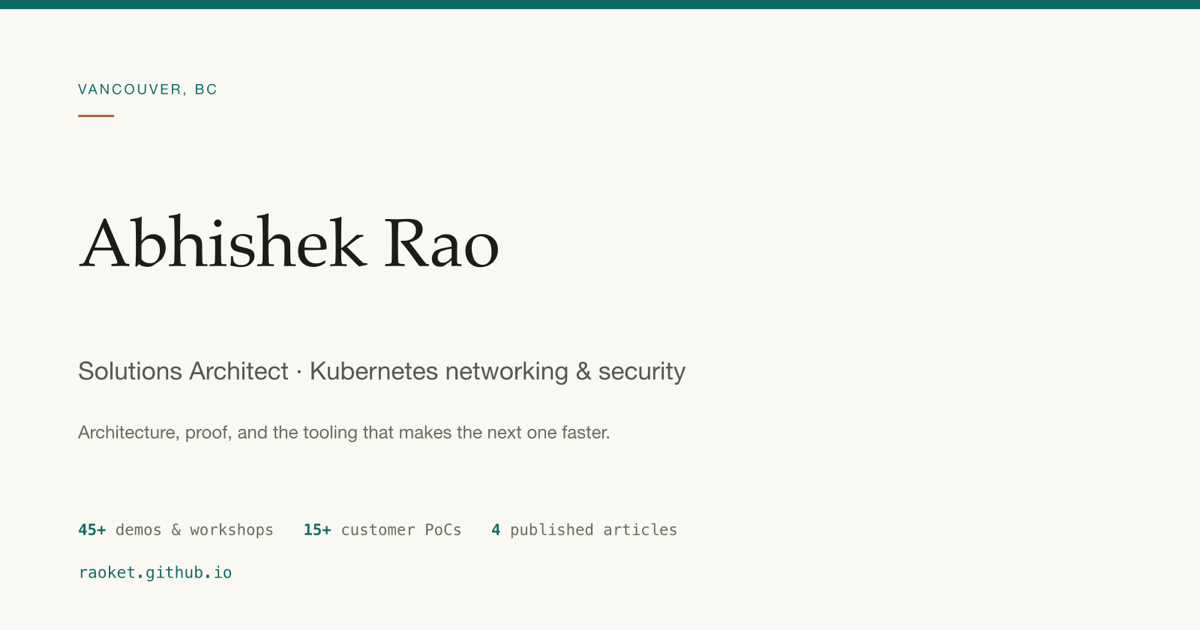
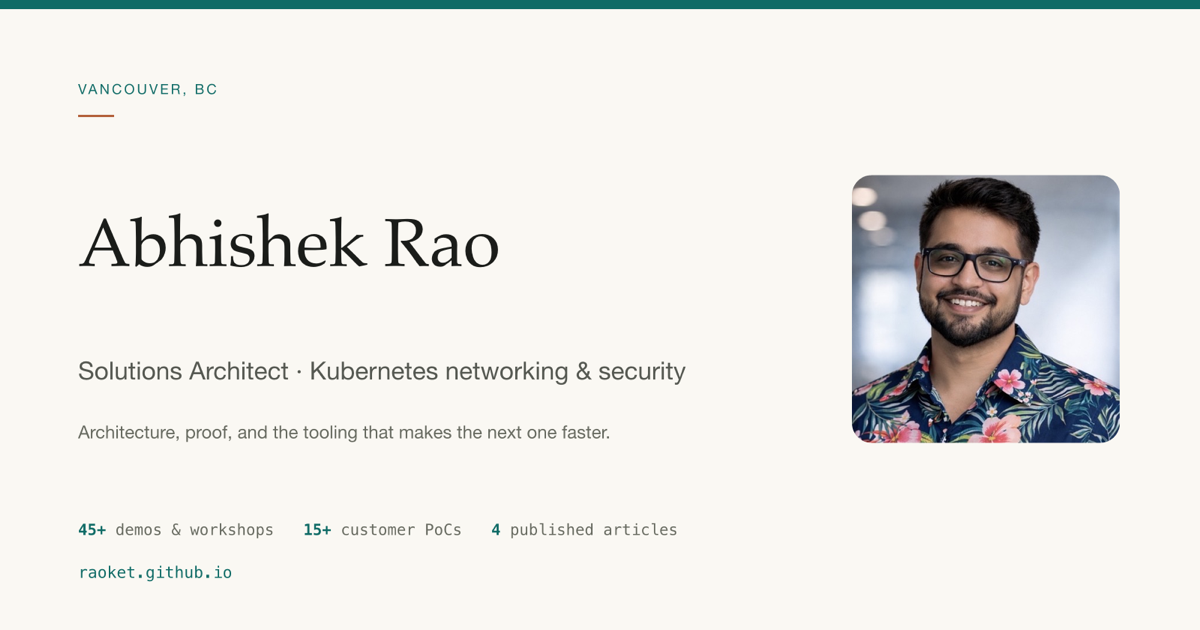
Add portrait to the hero; swap the commits stat for years of experience
Portrait cropped with a top-anchored offset so the head keeps its headroom, a
centred crop cut the forehead. 460px square, 60KB, and also composited into the
link-preview card so shares carry a face.

Hero is now a two-column grid, stacking on narrow screens with the portrait
first at a smaller size.

Stat: replaced 140+ sole-authored commits with 10 years in networking and
infrastructure. Commit count measures typing rather than architecture, and it
was the leading figure.

All 12 external links plus the résumé now open in a new tab with
rel=noopener noreferrer. In-page anchors and the mailto are deliberately left
alone so navigation and email still behave normally.

Changed region(s): [[0.7092, 0.2714, 0.9558, 0.7238]]

diff --git a/index.html b/index.html
@@ -158,6 +158,20 @@ h1{
 .btn.primary:hover{filter:brightness(1.08); color:#fff}
 .btn svg{width:15px; height:15px; flex:0 0 auto}
 
+/* ---------- hero portrait ---------- */
+.hero-grid{display:grid; grid-template-columns:1fr auto; gap:60px; align-items:center}
+.hero-photo{margin:0}
+.hero-photo img{
+  width:216px; height:216px; display:block; border-radius:20px; object-fit:cover;
+  border:1px solid var(--line-strong);
+  box-shadow:0 16px 44px -24px rgba(26,28,25,.5);
+}
+@media (max-width:860px){
+  .hero-grid{grid-template-columns:1fr; gap:30px}
+  .hero-photo{order:-1}
+  .hero-photo img{width:124px; height:124px; border-radius:15px}
+}
+
 /* ---------- stats ---------- */
 .stats{
   display:grid; grid-template-columns:repeat(auto-fit,minmax(150px,1fr));
@@ -336,7 +350,8 @@ footer h2{margin-bottom:12px}
 </nav>
 
 <header class="hero" id="top">
-  <div class="wrap">
+  <div class="wrap hero-grid">
+   <div class="hero-text">
     <p class="eyebrow">Vancouver, BC &nbsp;·&nbsp; Kubernetes networking &amp; security</p>
     <h1>Abhishek Rao</h1>
     <p class="role">Solutions Architect at Tigera, the company behind Project Calico</p>
@@ -351,7 +366,7 @@ footer h2{margin-bottom:12px}
         <svg viewBox="0 0 24 24" fill="none" stroke="currentColor" stroke-width="2" stroke-linecap="round"><path d="M4 6h16M4 12h16M4 18h10"/></svg>
         Selected work
       </a>
-      <a class="btn" href="https://github.com/raoket">
+      <a class="btn" href="https://github.com/raoket" target="_blank" rel="noopener noreferrer">
         <svg viewBox="0 0 24 24" fill="currentColor"><path d="M12 .3a12 12 0 0 0-3.8 23.4c.6.1.8-.3.8-.7v-2.6c-3.3.7-4-1.6-4-1.6-.6-1.4-1.4-1.8-1.4-1.8-1-.7 0-.7 0-.7 1.2.1 1.8 1.2 1.8 1.2 1 1.8 2.8 1.3 3.5 1 .1-.8.4-1.3.7-1.6-2.7-.3-5.5-1.3-5.5-6 0-1.2.5-2.3 1.2-3.1-.1-.3-.5-1.5.1-3.2 0 0 1-.3 3.3 1.2a11.5 11.5 0 0 1 6 0C17 4.1 18 4.4 18 4.4c.6 1.7.2 2.9.1 3.2.7.8 1.2 1.9 1.2 3.1 0 4.7-2.8 5.7-5.5 6 .4.4.8 1.1.8 2.2v3.3c0 .4.2.8.8.7A12 12 0 0 0 12 .3z"/></svg>
         GitHub
       </a>
@@ -359,17 +374,21 @@ footer h2{margin-bottom:12px}
         <svg viewBox="0 0 24 24" fill="none" stroke="currentColor" stroke-width="2" stroke-linecap="round"><rect x="2" y="4" width="20" height="16" rx="2"/><path d="m2 7 10 6 10-6"/></svg>
         Email
       </a>
-      <a class="btn" href="Abhishek-Rao-Resume.pdf">
+      <a class="btn" href="Abhishek-Rao-Resume.pdf" target="_blank" rel="noopener">
         <svg viewBox="0 0 24 24" fill="none" stroke="currentColor" stroke-width="2" stroke-linecap="round"><path d="M12 3v12M7 11l5 5 5-5M4 21h16"/></svg>
         Résumé
       </a>
     </div>
+   </div>
+   <figure class="hero-photo">
+     <img src="portrait.jpg" alt="Abhishek Rao" width="216" height="216" decoding="async">
+   </figure>
   </div>
 </header>
 
 <div class="stats">
   <div class="wrap" style="display:contents">
-    <div class="stat"><b>140+</b><span>sole-authored commits across 8 projects</span></div>
+    <div class="stat"><b>10</b><span>years in networking and infrastructure</span></div>
     <div class="stat"><b>15+</b><span>customer PoCs led</span></div>
     <div class="stat"><b>45+</b><span>demos &amp; workshops delivered</span></div>
     <div class="stat"><b>4</b><span>articles published on Kubernetes security</span></div>
@@ -467,7 +486,7 @@ footer h2{margin-bottom:12px}
           </dd>
         </dl>
         <div class="card-links">
-          <a href="https://www.tigera.io/calico-interactive-reference-architecture/">
+          <a href="https://www.tigera.io/calico-interactive-reference-architecture/" target="_blank" rel="noopener noreferrer">
             <svg viewBox="0 0 24 24" fill="none" stroke="currentColor" stroke-width="2" stroke-linecap="round"><path d="M10 13a5 5 0 0 0 7 0l3-3a5 5 0 0 0-7-7l-1 1"/><path d="M14 11a5 5 0 0 0-7 0l-3 3a5 5 0 0 0 7 7l1-1"/></svg>
             See it live on tigera.io
           </a>
@@ -732,7 +751,7 @@ footer h2{margin-bottom:12px}
           VKS platform work I did with a partner engineering team.
         </p>
         <div class="card-links">
-          <a href="https://www.tigera.io/blog/vmware-vks-calico-secure-networking/">Read on tigera.io</a>
+          <a href="https://www.tigera.io/blog/vmware-vks-calico-secure-networking/" target="_blank" rel="noopener noreferrer">Read on tigera.io</a>
         </div>
       </article>
 
@@ -747,7 +766,7 @@ footer h2{margin-bottom:12px}
           an allowlist, so this is the piece I send ahead of that conversation.
         </p>
         <div class="card-links">
-          <a href="https://medium.com/tigera/kubernetes-egress-explained-properly-the-three-designs-that-actually-matter-df8e2609f442">Read on Medium</a>
+          <a href="https://medium.com/tigera/kubernetes-egress-explained-properly-the-three-designs-that-actually-matter-df8e2609f442" target="_blank" rel="noopener noreferrer">Read on Medium</a>
         </div>
       </article>
 
@@ -762,7 +781,7 @@ footer h2{margin-bottom:12px}
           than just logging it.
         </p>
         <div class="card-links">
-          <a href="https://medium.com/tigera/https-medium-com-hellorao-ca-securing-ai-workloads-kubernetes-a6108aa92387">Read on Medium</a>
+          <a href="https://medium.com/tigera/https-medium-com-hellorao-ca-securing-ai-workloads-kubernetes-a6108aa92387" target="_blank" rel="noopener noreferrer">Read on Medium</a>
         </div>
       </article>
 
@@ -777,15 +796,15 @@ footer h2{margin-bottom:12px}
           you cannot get approved.
         </p>
         <div class="card-links">
-          <a href="https://medium.com/tigera/nginx-is-retiring-whats-next-e6543c7ed615">Read on Medium</a>
+          <a href="https://medium.com/tigera/nginx-is-retiring-whats-next-e6543c7ed615" target="_blank" rel="noopener noreferrer">Read on Medium</a>
         </div>
       </article>
     </div>
 
     <p style="margin-top:24px; font-size:14.5px; color:var(--fg-mid)">
       Full index on my
-      <a href="https://www.tigera.io/blog/author/abhishek-rao/">Tigera author page</a>
-      and on <a href="https://medium.com/@rao-simplifies">Medium</a>.
+      <a href="https://www.tigera.io/blog/author/abhishek-rao/" target="_blank" rel="noopener noreferrer">Tigera author page</a>
+      and on <a href="https://medium.com/@rao-simplifies" target="_blank" rel="noopener noreferrer">Medium</a>.
     </p>
   </div>
 </section>
@@ -903,10 +922,10 @@ footer h2{margin-bottom:12px}
     </p>
     <div class="cta">
       <a class="btn primary" href="mailto:hellorao.ca@gmail.com">hellorao.ca@gmail.com</a>
-      <a class="btn" href="https://github.com/raoket">GitHub</a>
-      <a class="btn" href="https://www.linkedin.com/in/iabhishekrao/">LinkedIn</a>
-      <a class="btn" href="https://medium.com/@rao-simplifies">Medium</a>
-      <a class="btn" href="Abhishek-Rao-Resume.pdf">Résumé (PDF)</a>
+      <a class="btn" href="https://github.com/raoket" target="_blank" rel="noopener noreferrer">GitHub</a>
+      <a class="btn" href="https://www.linkedin.com/in/iabhishekrao/" target="_blank" rel="noopener noreferrer">LinkedIn</a>
+      <a class="btn" href="https://medium.com/@rao-simplifies" target="_blank" rel="noopener noreferrer">Medium</a>
+      <a class="btn" href="Abhishek-Rao-Resume.pdf" target="_blank" rel="noopener">Résumé (PDF)</a>
     </div>
     <p class="foot-note">
       Built as a single self-contained HTML file, no framework and no build step, because
